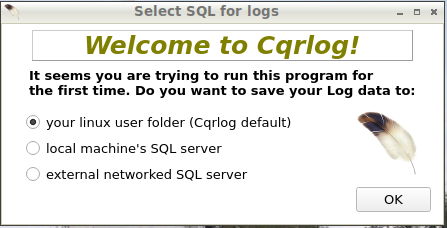
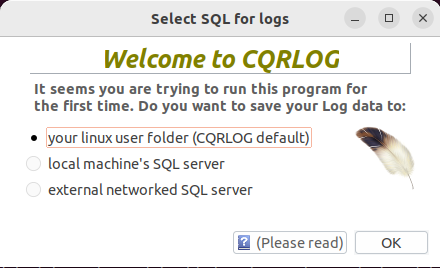
some fixes and core refactoring

diff --git a/help/firsttime.html b/help/firsttime.html
@@ -1,7 +1,7 @@
 <!DOCTYPE HTML PUBLIC "-//W3C//DTD HTML 4.01 Transitional//EN" "http://www.w3.org/TR/html4/loose.dtd">
 <html lang="en-us">
 <head>
-    <title>CQRLOG - SUBJECT HERE</title></head>
+    <title>CQRLOG - Starting for the first time</title></head>
 <body>
 <table border="0" cellpadding="5" cellspacing="2" width="100%">
     <tbody>
@@ -27,9 +27,9 @@
 <br>
 <div style="text-align: left;"><strong>CQRLOG for LINUX by OK2CQR &amp; OK1RR</strong></div>
 <p align="center"><img src="img/line.png"></p>
-<H2>Starting Cqrlog first time</H2>
-<p>First start of Cqrlog is important.
-<br>Thanks for opening the help to your web browser during this first run.  Help has many answers to your future questions and you can open it again from many menus of Cqrlog.
+<H2>Starting CQRLOG for the first time</H2>
+<p>First start of CQRLOG is important.
+<br>Thanks for opening the help to your web browser during this first run.  Help has many answers to your future questions and you can open it again from many menus of CQRLOG.
  We hope that you at least check now the left frame to see what topics you may find from help if needed.
 </p><p> Then you have to decide where you put your logs. You have three ways to save logs and each of them has it's good and bad sides.
 <br><br><img src="img/firsts1.png" >
@@ -38,22 +38,22 @@
 <H4>your Linux user folder</H4>
 This is the default way. If you close <b>Select SQL for logs</b> window, without pressing <b>OK</b>, this selection is used.
 <br>Log data is saved to  ~/.config/cqrlog/database folder. Access to that data is done by starting a new SQL server thread for that.
-<br>This makes full backup very easy. Just copy the ~/.config/cqrlog folder with all files and subfolders. You can also move your cqrlog to another PC that uses same version SQL engine, and has Cqrlog installed, by
+<br>This makes full backup very easy. Just copy the ~/.config/cqrlog folder with all files and subfolders. You can also move your CQRLOG to another PC that uses same version SQL engine, and has CQRLOG installed, by
 just copying ~/.config/cqrlog to another PC's user folder. How ever if username (actually user ID) there is different you have to run chown command to set the ownership of all files and folders for current username.
 
-<br><br>Unfortunately using this way to save logs causes most of database connection problems with Cqrlog mostly because of modern Linux security settings.
+<br><br>Unfortunately using this way to save logs causes most of database connection problems with CQRLOG mostly because of modern Linux security settings.
 
 </p><p>
 <h4>local machine's SQL server</h4>
-This option uses SQL server already installed to your machine during Cqrlog installation.
-<br>When using this option cqrlog tries first to create SQL user with proper privileges to use the SQL server and then set proper values to "Database connection" window.
-<br>Cqrlog will create two scripts to your home folder: <b>create_cqr_user.sh</b> and <b>backup_all_cqr.sh</b>
+This option uses SQL server already installed to your machine during CQRLOG installation.
+<br>When using this option CQRLOG tries first to create SQL user with proper privileges to use the SQL server and then set proper values to "Database connection" window.
+<br>CQRLOG will create two scripts to your home folder: <b>create_cqr_user.sh</b> and <b>backup_all_cqr.sh</b>
 <br>The first one creates database user and is normally used only once. It needs your Linux user password to run this script with sudo.
-<br>The second one allows you to make full backup of all cqrlog logs currently in database by starting this scipt in command-line terminal. 
-This script needs program mysqldump and cqrlog database users username and password to access database same way as Cqrlog itself does.
+<br>The second one allows you to make full backup of all CQRLOG logs currently in database by starting this scipt in command-line terminal. 
+This script needs program mysqldump and cqrlog database users username and password to access database same way as CQRLOG itself does.
 Backup creates <b>allcqrlogs.sql</b> in <b>/tmp</b> folder. You have to move this file to safe place because most Linuxes do clean up /tmp folder during startup.
 <br>It is also recommended to save <b>~/.config/cqrlog folder with allcqrlogs.sql </b>file. Script tells you how you can restore all logs back.
-<br><br>Cqrlog tries to open most common terminals <b>xterm, gnome-terminal </b>or<b> lxterminal</b> to execute <b>create_cqr_user.sh</b>. If that fails you have to run script manually from your command-line terminal.
+<br><br>CQRLOG tries to open most common terminals <b>xterm, gnome-terminal </b>or<b> lxterminal</b> to execute <b>create_cqr_user.sh</b>. If that fails you have to run script manually from your command-line terminal.
 </p>
 <h4>external networked SQL server</h4>
 With this option you have to define values to connect SQL server by yourself. Address, port, user and passord are required to connect to external SQL server.
@@ -61,14 +61,14 @@ With this option you have to define values to connect SQL server by yourself. Ad
 <br>It can exist in your home network or in Internet. When using internet SQL servers it is most recommended to use VPN or SSH tunnel connection for security reasons.
 </p>
 <p><br>
-After any of these options is selected, <b>OK</b> button pressed, and connection to SQL database established, Cqrlog tries to create first empty Log. This can take some time, so plese be patient.
-<br>When log is ready you can open it and go to <b>NewQSO/File/Preferences</b> to set all station details and other settings affecting to Cqrlog.
+After any of these options is selected, <b>OK</b> button pressed, and connection to SQL database established, CQRLOG tries to create first empty Log. This can take some time, so plese be patient.
+<br>When log is ready you can open it and go to <b>NewQSO/File/Preferences</b> to set all station details and other settings affecting to CQRLOG.
 In case of local and external SQL servers there might already be a log, or logs. Then no new log is created.<br><br><b>NOTE:</b> All settings are log based. You can have other logs with different settings and station information. 
-<br>Once you have got all settings ready you can export them to file. It happens at Cqrlog start in <b>Database connection</b> window with <b>Utils/Export/configuration</b>.
+<br>Once you have got all settings ready you can export them to file. It happens at CQRLOG start in <b>Database connection</b> window with <b>Utils/Export/configuration</b>.
 <br>When a new log is created you can use <b>Utils/Import/configuration</b> from your file to get all log settings similar with this new log.
 </p><p>
-<b>NOTE:</b> If you can not get one of these options work then remove <b>~/.config/cqrlog</b> folder to get new fresh start. There is no need to reinstall Cqrlog. 
-After done that start Cqrlog again to try with another of these options.<b> Removing this folder removes all local logs and settings !</b> 
+<b>NOTE:</b> If you can not get one of these options work then remove <b>~/.config/cqrlog</b> folder to get new fresh start. There is no need to reinstall CQRLOG. 
+After done that start CQRLOG again to try with another of these options.<b> Removing this folder removes all local logs and settings!</b> 
 
 
 <p align="center"><img src="img/line.png"></p>
